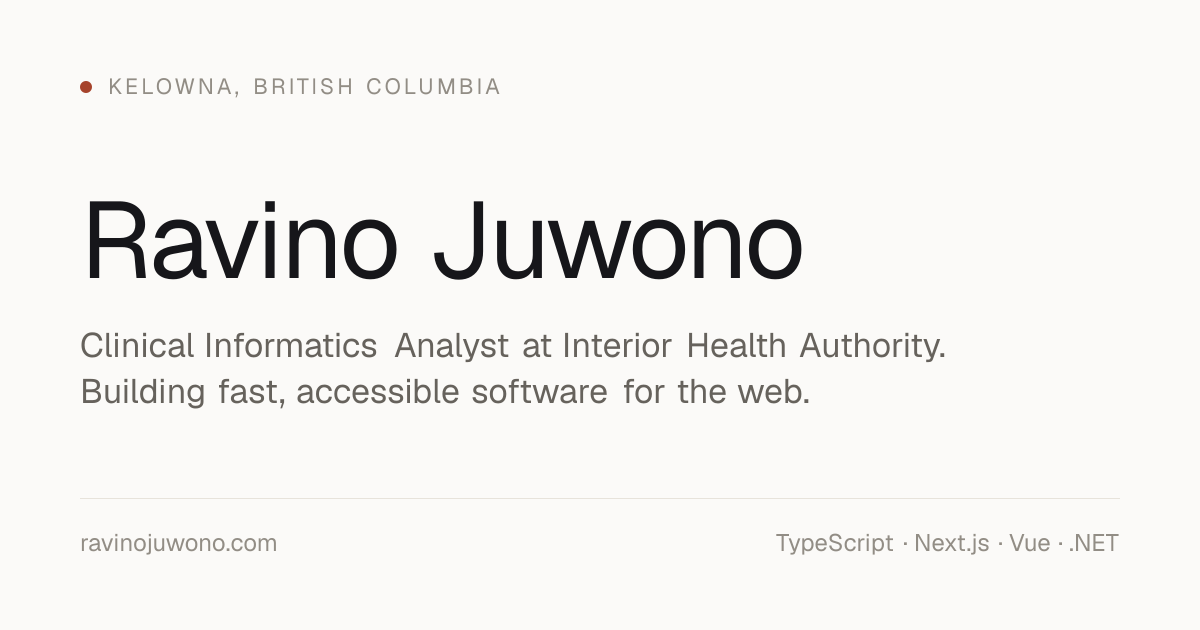
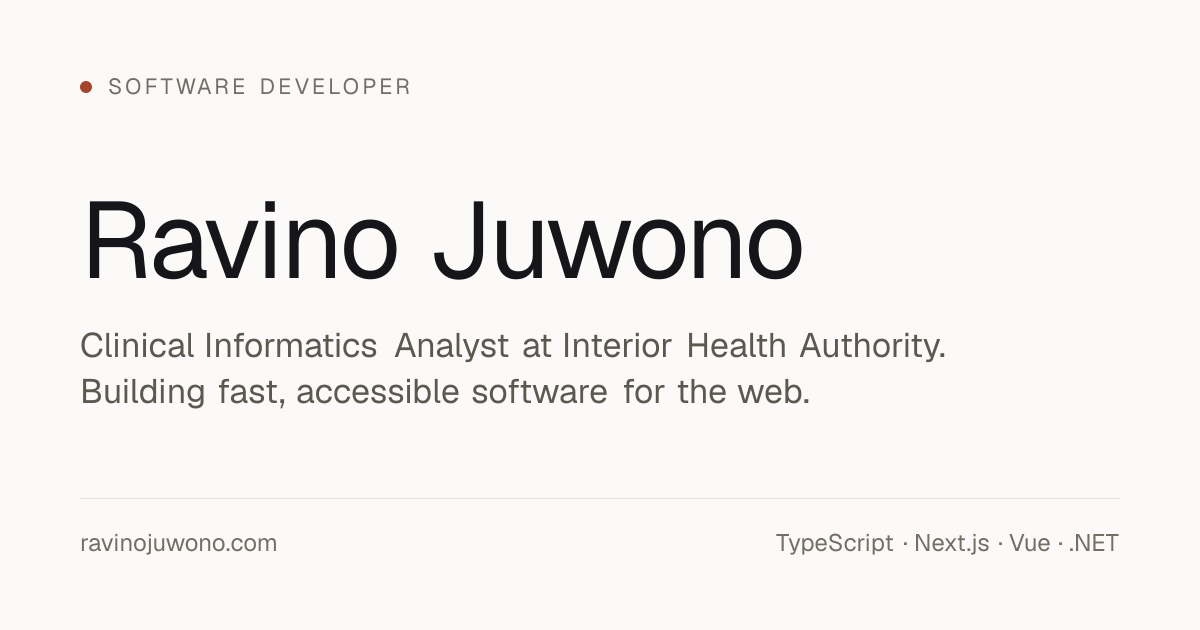
content: remove every location reference from the public site
No city or region in the copy, titles, descriptions, keywords, social image or
JSON-LD, and the postal address is gone from the structured data. The contact
page drops its Where section, the hero drops the location eyebrow and gains a
third fact in its place, and the degree is credited to UBC rather than naming
the campus.

diff --git a/src/app/layout.tsx b/src/app/layout.tsx
@@ -23,12 +23,12 @@ const instrumentSerif = Instrument_Serif({
 });
 
 const description =
-  "Ravino Juwono is a clinical informatics analyst in Kelowna, British Columbia. He keeps hospital scheduling software running for a health region of about a million people, and builds fast, accessible tools for the web.";
+  "Ravino Juwono is a clinical informatics analyst. He keeps hospital scheduling software running for a health region of about a million people, and builds fast, accessible tools for the web.";
 
 export const metadata: Metadata = {
   metadataBase: new URL(site.url),
   title: {
-    default: `${site.name}, software developer in Kelowna`,
+    default: `${site.name}, software developer`,
     template: `%s · ${site.name}`,
   },
   description,
@@ -39,7 +39,6 @@ export const metadata: Metadata = {
     "Ravino Juwono",
     "clinical informatics",
     "software developer",
-    "Kelowna",
     "Next.js",
     "TypeScript",
   ],
@@ -48,7 +47,7 @@ export const metadata: Metadata = {
     type: "website",
     siteName: site.name,
     locale: "en_CA",
-    title: `${site.name}, software developer in Kelowna`,
+    title: `${site.name}, software developer`,
     description,
     url: "/",
     images: [
@@ -62,7 +61,7 @@ export const metadata: Metadata = {
   },
   twitter: {
     card: "summary_large_image",
-    title: `${site.name}, software developer in Kelowna`,
+    title: `${site.name}, software developer`,
     description,
     images: ["/og.png"],
   },
@@ -81,15 +80,9 @@ const personJsonLd = {
   url: site.url,
   jobTitle: site.role,
   worksFor: { "@type": "Organization", name: site.employer },
-  address: {
-    "@type": "PostalAddress",
-    addressLocality: "Kelowna",
-    addressRegion: "BC",
-    addressCountry: "CA",
-  },
   alumniOf: {
     "@type": "CollegeOrUniversity",
-    name: "University of British Columbia Okanagan",
+    name: "University of British Columbia",
   },
   sameAs: site.socials.map((s) => s.href),
 };

diff --git a/src/app/about/page.tsx b/src/app/about/page.tsx
@@ -8,7 +8,7 @@ import { site } from "@/content/site";
 export const metadata: Metadata = pageMetadata({
   title: "About",
   description:
-    "Physics graduate turned software developer, now working in clinical informatics in Kelowna, British Columbia. How I got here and how I like to build.",
+    "Physics graduate turned software developer, now working in clinical informatics. How I got here and how I like to build.",
   path: "/about/",
 });
 
@@ -29,7 +29,7 @@ export default function AboutPage() {
           <Reveal>
             <Prose>
               <p>
-                I studied physics at UBC Okanagan, which mostly taught me how to
+                I studied physics at UBC, which mostly taught me how to
                 sit with a problem I do not understand yet. The programming
                 started as a way to get through problem sets, then took over.
               </p>

diff --git a/src/app/contact/page.tsx b/src/app/contact/page.tsx
@@ -9,7 +9,7 @@ import { site } from "@/content/site";
 export const metadata: Metadata = pageMetadata({
   title: "Contact",
   description:
-    "Reach Ravino Juwono on LinkedIn. Clinical informatics analyst and software developer based in Kelowna, British Columbia.",
+    "Reach Ravino Juwono on LinkedIn. Clinical informatics analyst and software developer.",
   path: "/contact/",
 });
 
@@ -57,14 +57,6 @@ export default function ContactPage() {
             </Reveal>
           ))}
         </div>
-
-        <Reveal delay={200} className="mt-14 border-t border-line pt-5">
-          <p className="eyebrow">Where</p>
-          <p className="mt-3 font-display text-title">{site.location}</p>
-          <p className="mt-2 text-[0.9375rem] text-ink-muted">
-            Pacific time, give or take a daylight saving change.
-          </p>
-        </Reveal>
       </Section>
     </>
   );

diff --git a/src/app/page.tsx b/src/app/page.tsx
@@ -12,9 +12,9 @@ import { site } from "@/content/site";
 const current = roles.find((r) => r.current)!;
 
 const heroFacts = [
-  { label: "Based", value: "Kelowna, BC" },
   { label: "Currently", value: site.employer },
   { label: "Focus", value: "Healthcare systems, web" },
+  { label: "Mostly", value: "TypeScript, React, .NET" },
 ];
 
 export default function HomePage() {
@@ -23,7 +23,6 @@ export default function HomePage() {
       {/* ---------------------------------------------------------------- Hero */}
       <Container>
         <div className="pt-14 pb-10 sm:pt-20 sm:pb-14">
-          <p className="eyebrow">{site.location}</p>
           <h1 className="mt-6 max-w-[15ch] font-display text-display">
             {site.name}
           </h1>

diff --git a/src/components/site-footer.tsx b/src/components/site-footer.tsx
@@ -8,9 +8,7 @@ export function SiteFooter() {
         <div className="flex flex-col gap-10 sm:flex-row sm:justify-between">
           <div>
             <p className="font-display text-2xl">{site.name}</p>
-            <p className="mt-2 text-sm text-ink-muted">
-              {site.role}, {site.location}
-            </p>
+            <p className="mt-2 text-sm text-ink-muted">{site.role}</p>
             <Link
               href="/contact"
               className="link-underline mt-4 inline-block text-sm text-ink"

diff --git a/src/content/site.ts b/src/content/site.ts
@@ -8,7 +8,6 @@ export const site = {
   shortName: "Vino",
   role: "Clinical Informatics Analyst",
   employer: "Interior Health Authority",
-  location: "Kelowna, British Columbia",
   url: "https://www.ravinojuwono.com",
   /** Public GA4 measurement id, carried over from the previous site. */
   gaMeasurementId: "G-1NQ0WY7B97",

diff --git a/src/content/work.ts b/src/content/work.ts
@@ -150,7 +150,7 @@ export const capabilities = [
 export const education = [
   {
     title: "BSc, Physics",
-    organisation: "University of British Columbia Okanagan",
+    organisation: "University of British Columbia",
     period: "2019 to 2023",
   },
   {

diff --git a/README.md b/README.md
@@ -94,9 +94,17 @@ employment history, the acapella detail, and the GA4 property.
 from Quasar to React and keep their original URLs, because the GitHub
 repositories link to them.
 
-**Removed from the public site.** The email address, the logo marquee, the stock
-hero illustration, the background pattern, and the resume PDF viewer with its
-15 MB vendored copy of pdf.js.
+**Removed from the public site.** The email address, the location, the logo
+marquee, the stock hero illustration, the background pattern, and the resume
+PDF viewer with its 15 MB vendored copy of pdf.js.
+
+**Location.** No city or region appears anywhere: not in the copy, the titles,
+the descriptions, the social image or the JSON-LD, which no longer carries a
+postal address. The degree is credited to "University of British Columbia"
+rather than naming the Okanagan campus, which is accurate and does not point at
+a particular city. Two things still narrow it down and were kept because they
+carry the professional positioning: the employer, and the health region it
+serves. Say the word if either should go.
 
 **Rangouts** is listed under experience as "Software Developer" rather than
 "Software Developer (Cofounder)" as on the resume. It shut down in 2023 and is
